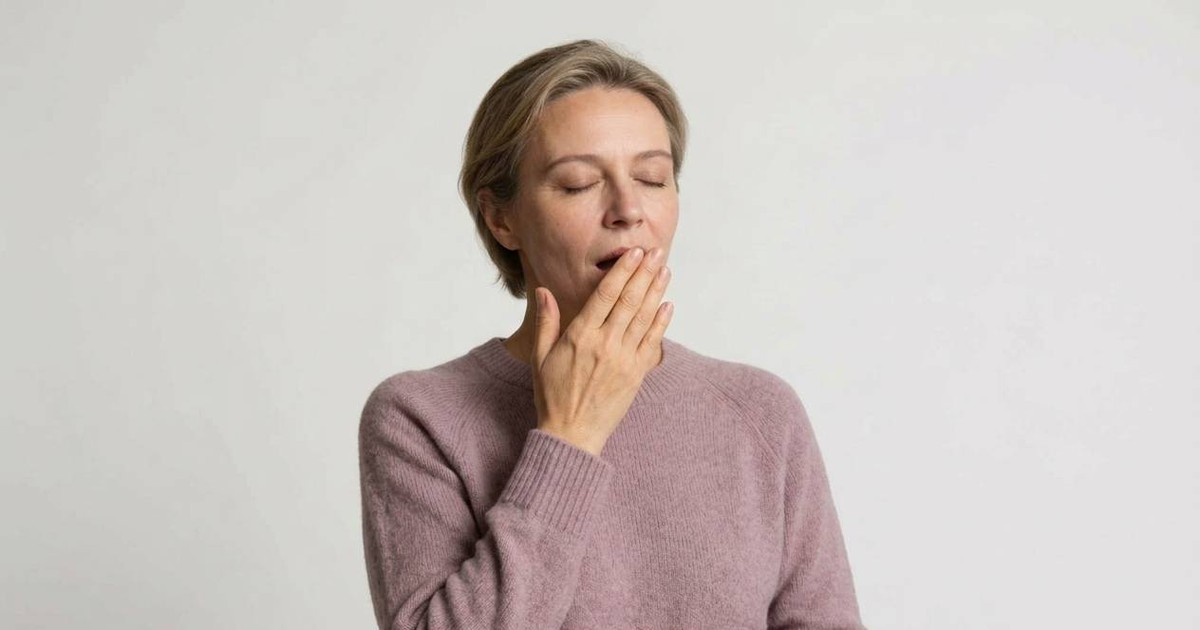
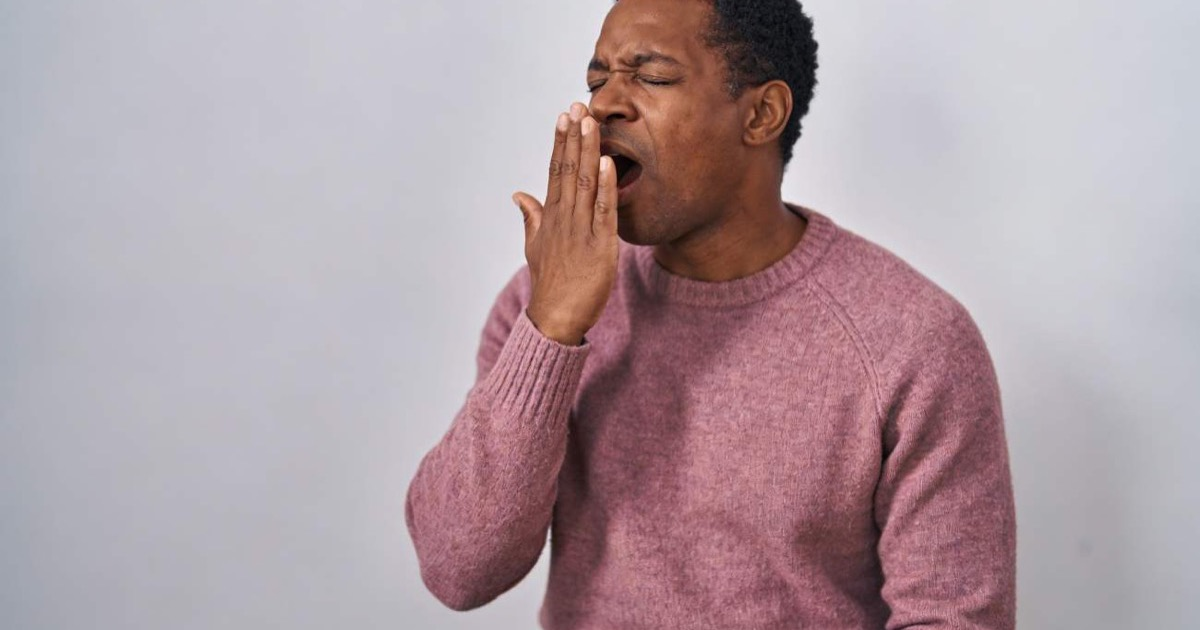
Update troubles-sommeil blog photo — man yawning replaces woman
New photo + OG image regenerated (1200x630 crop). Alt texts updated
on article page and blog.html index.

diff --git a/blog.html b/blog.html
@@ -279,7 +279,7 @@
                 <article class="blog-card fade-up">
                     <a href="blog/troubles-sommeil-solutions-naturelles-queven.html">
                         <div class="blog-image-placeholder" style="background: url('images/Blog%20photos/blog-troubles-sommeil-solutions-naturelles-queven.jpg') center/cover; padding: 0; font-size: 0;">
-                            <img src="images/Blog%20photos/blog-troubles-sommeil-solutions-naturelles-queven.jpg" alt="Femme bâillant en pull mauve, illustrant les troubles du sommeil — conseils pharmacien Quéven" width="680" height="680" style="width: 100%; height: 100%; object-fit: cover; display: block;">
+                            <img src="images/Blog%20photos/blog-troubles-sommeil-solutions-naturelles-queven.jpg" alt="Homme bâillant en pull mauve, illustrant les troubles du sommeil — conseils pharmacien Quéven" width="680" height="680" style="width: 100%; height: 100%; object-fit: cover; display: block;">
                         </div>
                     </a>
                     <div class="blog-content">

diff --git a/blog/troubles-sommeil-solutions-naturelles-queven.html b/blog/troubles-sommeil-solutions-naturelles-queven.html
@@ -601,7 +601,7 @@
             <h1 class="gradient-text">Troubles du sommeil : les solutions naturelles pour retrouver des nuits sereines</h1>
         </header>
 
-        <img src="../images/Blog%20photos/blog-troubles-sommeil-solutions-naturelles-queven.jpg" alt="Femme sereine tenant une tasse de tisane, évoquant un rituel du soir apaisant pour mieux dormir" width="680" height="394" style="width: 100%; max-height: 420px; object-fit: cover; border-radius: var(--radius-md); margin-bottom: var(--space-xl);" loading="lazy">
+        <img src="../images/Blog%20photos/blog-troubles-sommeil-solutions-naturelles-queven.jpg" alt="Homme bâillant en pull mauve, illustrant les troubles du sommeil et le manque de repos" width="680" height="394" style="width: 100%; max-height: 420px; object-fit: cover; border-radius: var(--radius-md); margin-bottom: var(--space-xl);" loading="lazy">
 
         <div class="summary-box">
             <strong>L'essentiel en 3 points:</strong>
